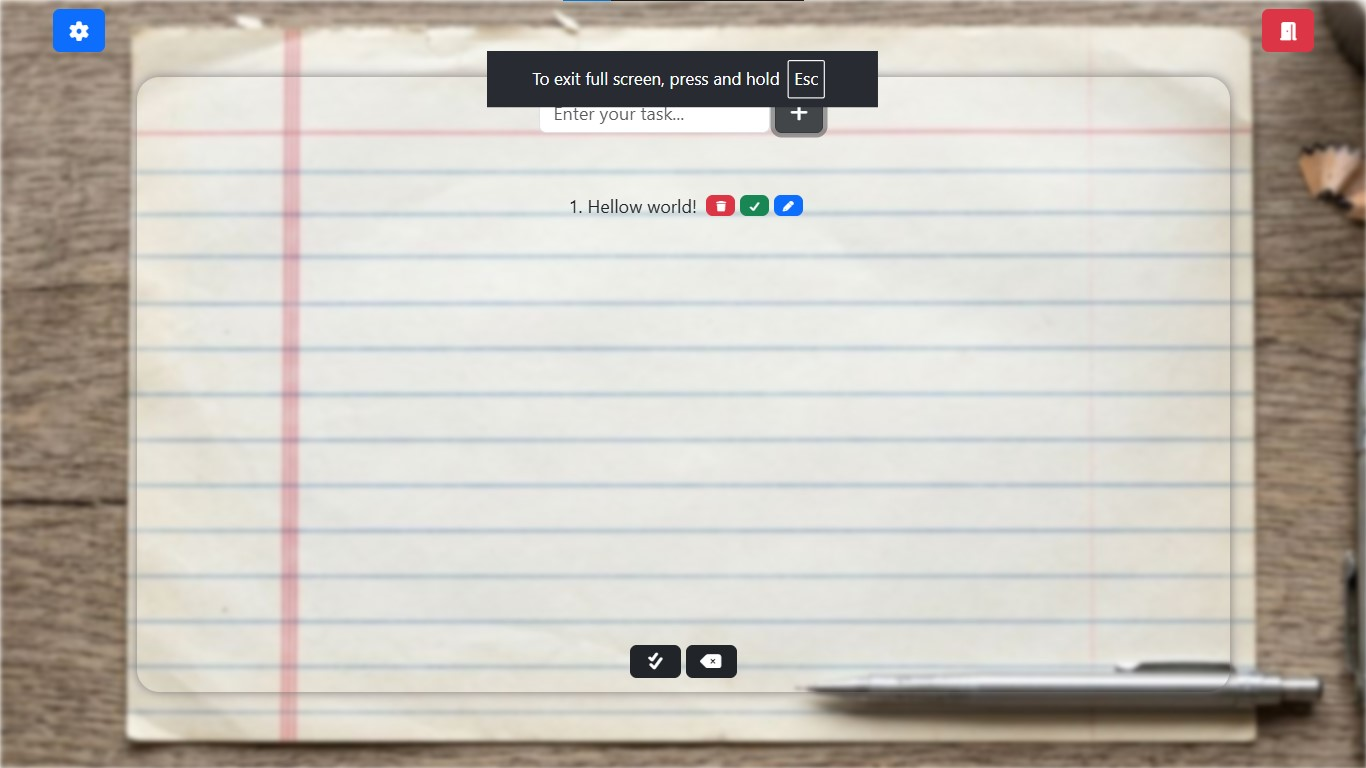
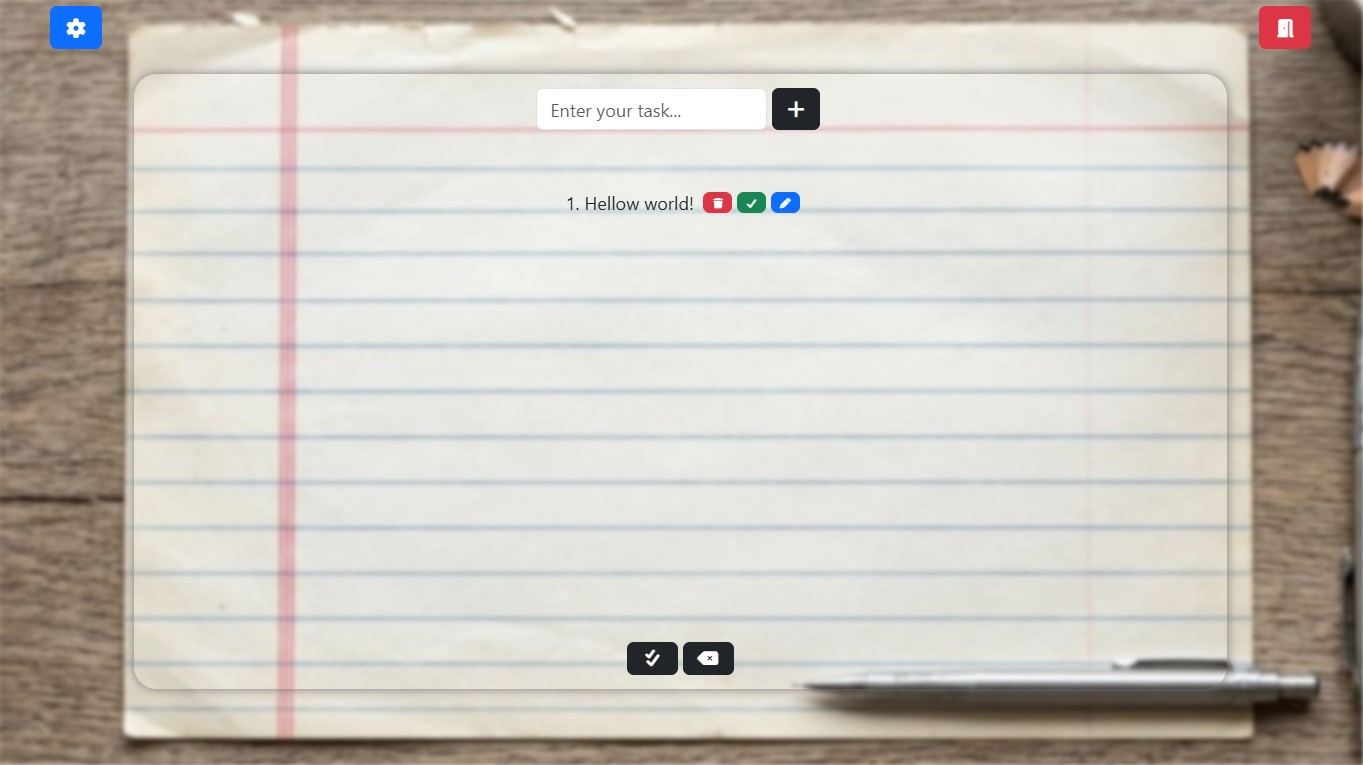
update 20

diff --git a/components/myComponents/hero/Hero.jsx b/components/myComponents/hero/Hero.jsx
@@ -20,7 +20,7 @@ const Hero = () => {
           <a href="#gallery" className="flex gap-1 w-28 justify-between text-xs text-center text-white main-bg rounded-2xl px-3 py-2 items-center transition-all duration-300 hover:bg-[#5f7a5e]">
         My Projects<BiDownArrowAlt className="text-sm" />
         </a>
-        <a href="#gallery" className="flex gap-1 w-28 justify-between text-xs text-center bg-transparent main-col border border-[#24453b] rounded-2xl px-3 py-2 items-center transition-all duration-300 hover:bg-[#5f7a5e]">
+        <a href="https://drive.google.com/file/d/1ID5yXvDpwMKJeZ0RUROH7jQlyV5Zm_L8/view?usp=drive_open" target="_blank" className="flex gap-1 w-28 justify-between text-xs text-center bg-transparent main-col border border-[#24453b] rounded-2xl px-3 py-2 items-center transition-all duration-300 hover:bg-[#5f7a5e]">
           My Resume<AiFillFileText />
         </a>
         </div>
